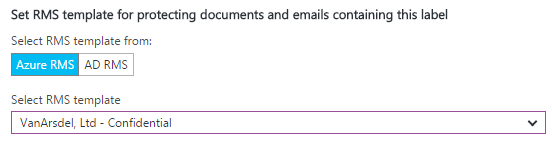
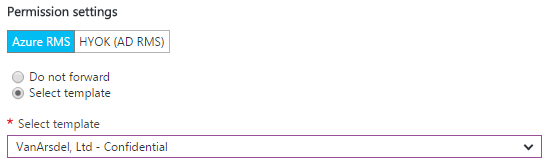
updates for new UI in the portal

diff --git a/Azure-RMSDocs/get-started/infoprotect-tutorial-step2.md b/Azure-RMSDocs/get-started/infoprotect-tutorial-step2.md
@@ -68,7 +68,13 @@ We'll now change the settings of one of the labels, **Confidential**:
     
     In the new **Label: Confidential** blade, you now see the settings that are available for each label. 
 
-2. In the **Label: Confidential** blade, locate the section **Set permissions for documents and emails containing this label**, click **Protect**, and then click the **Protection** bar to open the **Permissions** blade.
+2. In the **Label: Confidential** blade, locate the section **Set permissions for documents and emails containing this label**.
+
+    Click the **Protection** bar:
+    
+    ![Configure protection for an Azure Information Protection label](../media/info-protect-protection-bar.png). 
+    
+    This action opens the **Permissions** blade.
     
 3. In the **Permissions** blade, make sure that **Azure RMS** is selected, that **Select template** is also selected, and then click the drop down box and select the default template **\<your organization name> - Confidential**.     
     
